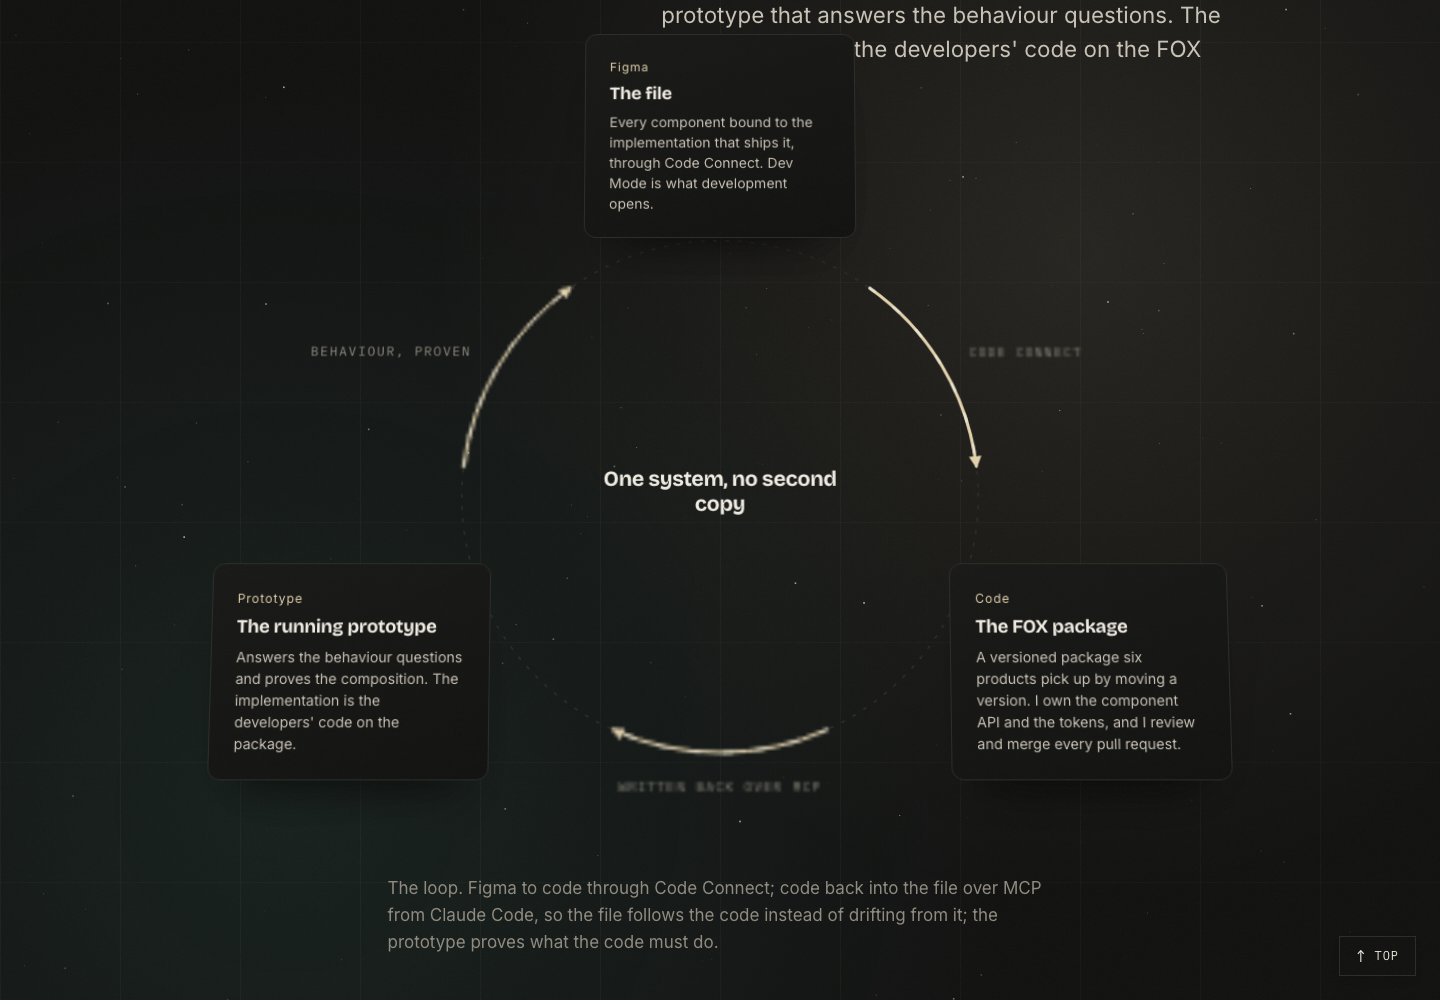
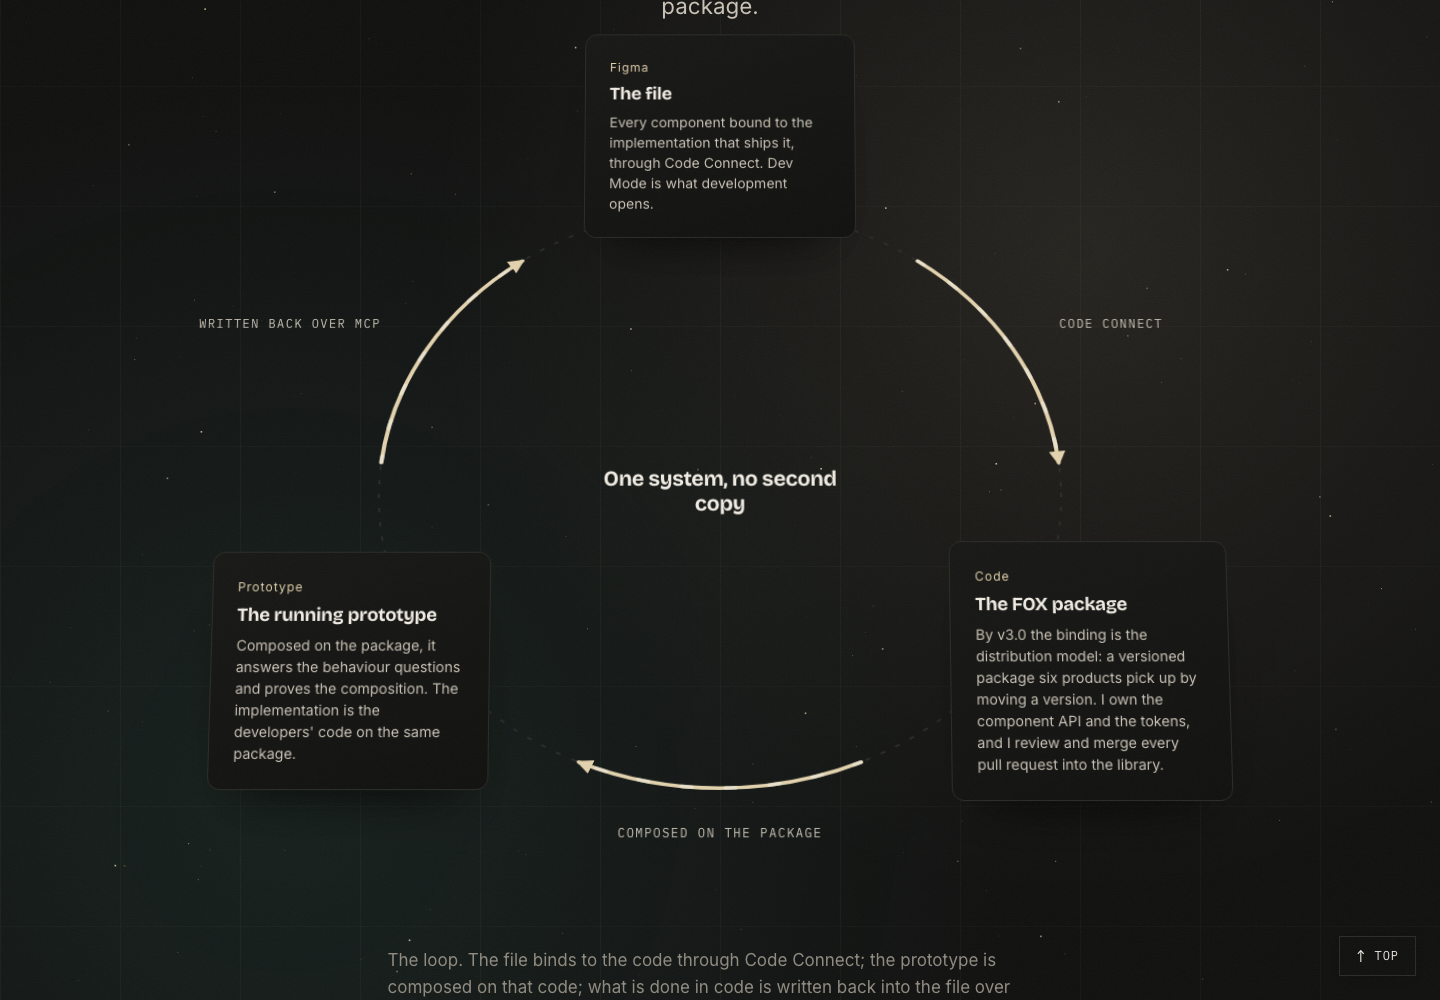
fix(work): loop po review - brakujace pliki komponentu i typu, kierunki lukow zgodne z opisem, etykiety jako HTML, odstep nad i pod pierscieniem, stos na telefonie bez hover, marker z useId

diff --git a/site/src/system/Loop.tsx b/site/src/system/Loop.tsx
@@ -1,0 +1,101 @@
+import { useId } from "react";
+
+import { useReveal } from "./Reveal";
+import { useTilt } from "./motion";
+import { Lane } from "./Wall";
+
+type Station = { title: string; body: string; label?: string };
+
+/**
+ * A cycle as a ring. The stations sit on a circle, set in perspective
+ * and tilting toward the cursor; the connectors between them are arcs
+ * that draw themselves the first time the ring is seen, then keep a slow
+ * flow of dashes running the way the loop runs. Each edge carries its
+ * label on the arc. The centre names what the loop is for.
+ *
+ * Geometry is computed once per station count, so three and four
+ * stations both close the ring.
+ */
+export function Loop({ stations, edges, centre, caption }: { stations: Station[]; edges: { label: string }[]; centre?: string; caption?: string }) {
+  const { ref, shown } = useReveal<HTMLDivElement>();
+  const tilt = useTilt<HTMLDivElement>(5);
+  const head = useId();
+  const n = stations.length;
+  const R = 50;
+  const C = 50;
+  const pos = (i: number) => {
+    const a = -Math.PI / 2 + (i / n) * Math.PI * 2;
+    return { x: C + Math.cos(a) * R, y: C + Math.sin(a) * R, a };
+  };
+  // the arc from station i to the next: a sweep on the same circle, trimmed
+  // so it starts and ends outside each card
+  const gap = (Math.PI * 2) / n * 0.3;
+  const r = R * 0.82;
+  const span = (i: number) => {
+    const a0 = pos(i).a + gap;
+    const a1 = pos((i + 1) % n).a - gap + (i + 1 === n ? Math.PI * 2 : 0);
+    return { a0, a1 };
+  };
+  const arc = (i: number) => {
+    const { a0, a1 } = span(i);
+    const p0 = { x: C + Math.cos(a0) * r, y: C + Math.sin(a0) * r };
+    const p1 = { x: C + Math.cos(a1) * r, y: C + Math.sin(a1) * r };
+    return `M${p0.x.toFixed(2)} ${p0.y.toFixed(2)} A${r} ${r} 0 0 1 ${p1.x.toFixed(2)} ${p1.y.toFixed(2)}`;
+  };
+  // the label sits level, just outside the midpoint of its arc, as HTML so
+  // it stays crisp inside the tilted layer
+  const mid = (i: number) => {
+    const { a0, a1 } = span(i);
+    const a = (a0 + a1) / 2;
+    const rr = r + 6;
+    return { x: C + Math.cos(a) * rr, y: C + Math.sin(a) * rr, side: Math.cos(a) > 0.3 ? "right" : Math.cos(a) < -0.3 ? "left" : "mid" };
+  };
+  return (
+    <Lane width="wall">
+      <div ref={ref} className={shown ? "loop is-shown" : "loop"}>
+        <div ref={tilt} className="loop__ring" >
+          <svg className="loop__arcs" viewBox="0 0 100 100" preserveAspectRatio="none" aria-hidden="true">
+            <defs>
+              <marker id={head} viewBox="0 0 10 10" refX="8" refY="5" markerWidth="4" markerHeight="4" orient="auto-start-reverse">
+                <path className="loop__head" d="M0 0 L10 5 L0 10 z" />
+              </marker>
+            </defs>
+            <circle className="loop__orbit" cx={C} cy={C} r={R * 0.82} />
+            {edges.map((_, i) => (
+              <g key={i} className="loop__edge" style={{ "--d": `${400 + i * 500}ms` } as React.CSSProperties}>
+                <path className="loop__draw" d={arc(i)} markerEnd={`url(#${head})`} />
+                <path className="loop__dash" d={arc(i)} />
+              </g>
+            ))}
+          </svg>
+          {edges.map((e, i) => {
+            const m = mid(i);
+            return (
+              <span key={i} className={`loop__label loop__label--${m.side}`} style={{ left: `${m.x}%`, top: `${m.y}%`, transitionDelay: `${1300 + i * 500}ms` }} aria-hidden="true">
+                {e.label}
+              </span>
+            );
+          })}
+          {centre && <p className="loop__centre">{centre}</p>}
+          {stations.map((s, i) => {
+            const p = pos(i);
+            return (
+              <article
+                key={i}
+                className="loop__station"
+                style={{ left: `${p.x}%`, top: `${p.y}%`, transitionDelay: `${i * 160}ms` } as React.CSSProperties}
+              >
+                {s.label && <span className="loop__n">{s.label}</span>}
+                <h3 className="loop__title">{s.title}</h3>
+                <p className="loop__body">{s.body}</p>
+                {/* on a phone the ring is a stack, and the hop between cards names the edge */}
+                {edges[i] && <span className="loop__hop">{edges[i].label} <span aria-hidden="true">↓</span></span>}
+              </article>
+            );
+          })}
+        </div>
+        {caption && <p className="loop__caption">{caption}</p>}
+      </div>
+    </Lane>
+  );
+}

diff --git a/site/src/styles/case.css b/site/src/styles/case.css
@@ -1487,11 +1487,11 @@ article { position: relative; z-index: 1; }
 .loop { margin-top: calc(var(--bh-beat-block) * 1.5); perspective: 1800px; }
 .loop__ring {
   --rx: 0deg; --ry: 0deg;
-  position: relative; width: min(100%, 52rem); aspect-ratio: 1 / 0.86; margin: 0 auto;
+  position: relative; width: min(100%, 52rem); aspect-ratio: 1 / 0.86; margin: 7rem auto 6rem;
   transform: rotateX(calc(var(--rx) + 6deg)) rotateY(var(--ry)); transform-style: preserve-3d;
   transition: transform 500ms cubic-bezier(0.2, 0.7, 0.2, 1);
 }
-.loop__arcs { position: absolute; inset: 6% 0; width: 100%; height: 88%; overflow: visible; }
+.loop__arcs { position: absolute; inset: 0; width: 100%; height: 100%; overflow: visible; }
 .loop__orbit { fill: none; stroke: var(--kt-line); stroke-width: 0.25; stroke-dasharray: 0.6 1.4; opacity: 0; transition: opacity 900ms 200ms; }
 .loop.is-shown .loop__orbit { opacity: 1; }
 .loop__edge path { fill: none; stroke-linecap: round; }
@@ -1500,9 +1500,12 @@ article { position: relative; z-index: 1; }
 .loop__dash { stroke: var(--kt-ink); stroke-width: 0.5; stroke-dasharray: 1.2 4; opacity: 0; animation: loop-flow 6s linear infinite; transition: opacity 600ms calc(var(--d) + 1200ms); }
 .loop.is-shown .loop__dash { opacity: 0.55; }
 @keyframes loop-flow { to { stroke-dashoffset: -52; } }
-#loop-head path { fill: var(--kt-sand); }
-.loop__label { font-family: var(--bh-font-id, "IBM Plex Mono", monospace); font-size: 2.1px; letter-spacing: 0.12em; text-transform: uppercase; fill: var(--kt-ink-3); opacity: 0; transition: opacity 600ms calc(var(--d) + 900ms); }
+.loop__head { fill: var(--kt-sand); }
+.loop__label { position: absolute; transform: translate(-50%, -50%) translateZ(20px); white-space: nowrap; font-family: var(--bh-font-id, "IBM Plex Mono", monospace); font-size: var(--bh-size-id); letter-spacing: 0.12em; text-transform: uppercase; color: var(--kt-ink-2); opacity: 0; transition: opacity 600ms; }
+.loop__label--right { transform: translate(0, -50%) translateZ(20px); }
+.loop__label--left { transform: translate(-100%, -50%) translateZ(20px); }
 .loop.is-shown .loop__label { opacity: 1; }
+.loop__hop { display: none; }
 .loop__centre {
   position: absolute; left: 50%; top: 50%; width: 11em; margin: 0; transform: translate(-50%, -50%) translateZ(10px);
   text-align: center; font-family: var(--kt-font-display); font-weight: 700; font-size: clamp(1rem, 2.2vw, 1.35rem); letter-spacing: -0.02em; line-height: 1.15; color: var(--kt-ink);
@@ -1522,13 +1525,15 @@ article { position: relative; z-index: 1; }
 .loop__title { margin: 0; font-family: var(--kt-font-display); font-weight: 700; font-size: 1.15rem; letter-spacing: -0.015em; line-height: 1.15; color: var(--kt-ink); }
 .loop__body { margin: 0; font-size: var(--bh-size-small); line-height: 1.5; color: var(--kt-ink-2); }
 .loop__caption { max-width: 62ch; margin: var(--bh-space-4) auto 0; color: var(--kt-ink-3); }
-@media (max-width: 48rem) {
-  .loop__ring { aspect-ratio: auto; transform: none; display: grid; gap: var(--bh-space-3); }
-  .loop__arcs, .loop__centre { display: none; }
-  .loop__station, .loop.is-shown .loop__station { position: static; width: auto; transform: none; }
+@media (max-width: 56rem) {
+  .loop__ring { aspect-ratio: auto; transform: none; display: grid; gap: var(--bh-space-3); margin: var(--bh-space-4) 0 0; }
+  .loop__arcs, .loop__centre, .loop__label { display: none; }
+  .loop__station, .loop.is-shown .loop__station, .loop.is-shown .loop__station:hover { position: static; width: auto; transform: none; }
+  .loop__hop { display: block; margin-top: var(--bh-space-2); font-size: var(--bh-size-id); letter-spacing: 0.08em; text-transform: uppercase; color: var(--kt-sand); }
 }
 @media (prefers-reduced-motion: reduce) {
   .loop__ring, .loop__station, .loop__draw, .loop__dash, .loop__label, .loop__centre, .loop__orbit { transition: none; animation: none; }
+  .loop__ring { transform: none; }
   .loop__draw { stroke-dashoffset: 0; } .loop__dash, .loop__label, .loop__centre, .loop__orbit { opacity: 1; } .loop__dash { opacity: 0.55; }
   .loop__station { opacity: 1; transform: translate(-50%, -50%); }
 }

diff --git a/site/src/content/bi.ts b/site/src/content/bi.ts
@@ -935,16 +935,16 @@ export const bi: CaseStudy = {
           centre: "One system, no second copy",
           stations: [
             { label: "Figma", title: "The file", body: "Every component bound to the implementation that ships it, through Code Connect. Dev Mode is what development opens." },
-            { label: "Code", title: "The FOX package", body: "A versioned package six products pick up by moving a version. I own the component API and the tokens, and I review and merge every pull request." },
-            { label: "Prototype", title: "The running prototype", body: "Answers the behaviour questions and proves the composition. The implementation is the developers' code on the package." },
+            { label: "Code", title: "The FOX package", body: "By v3.0 the binding is the distribution model: a versioned package six products pick up by moving a version. I own the component API and the tokens, and I review and merge every pull request into the library." },
+            { label: "Prototype", title: "The running prototype", body: "Composed on the package, it answers the behaviour questions and proves the composition. The implementation is the developers' code on the same package." },
           ],
           edges: [
             { label: "Code Connect" },
+            { label: "Composed on the package" },
             { label: "Written back over MCP" },
-            { label: "Behaviour, proven" },
           ],
           caption:
-            "The loop. Figma to code through Code Connect; code back into the file over MCP from Claude Code, so the file follows the code instead of drifting from it; the prototype proves what the code must do.",
+            "The loop. The file binds to the code through Code Connect; the prototype is composed on that code; what is done in code is written back into the file over MCP from Claude Code, so the file follows the code instead of drifting from it.",
         },
         {
           kind: "flow",

diff --git a/site/src/content/types.ts b/site/src/content/types.ts
@@ -333,7 +333,14 @@ export type Block =
    * its maxim; opening it unfolds that use case to the right, one panel
    * per block, so the wall stays short and the detail is read sideways.
    */
-  | { kind: "dossier"; items: Dossier[] };
+  | { kind: "dossier"; items: Dossier[] }
+  /**
+   * A cycle drawn as a ring: three or four stations, each a card, joined
+   * by connectors that draw themselves on first sight and keep flowing.
+   * For a loop that has no first step, such as file, code and prototype
+   * feeding one another. Where an order matters, use `flow`.
+   */
+  | { kind: "loop"; stations: { title: string; body: string; label?: string }[]; edges: { label: string }[]; centre?: string; caption?: string };
 
 /** One tile of a dossier: a chapter's worth of blocks, opened sideways. */
 export type Dossier = {

diff --git a/site/src/system/index.ts b/site/src/system/index.ts
@@ -27,3 +27,4 @@ export { UseCase } from "./UseCase";
 export { Evolution } from "./Evolution";
 export { AnnotatedSet } from "./Annotated";
 export { Dossier } from "./Dossier";
+export { Loop } from "./Loop";
